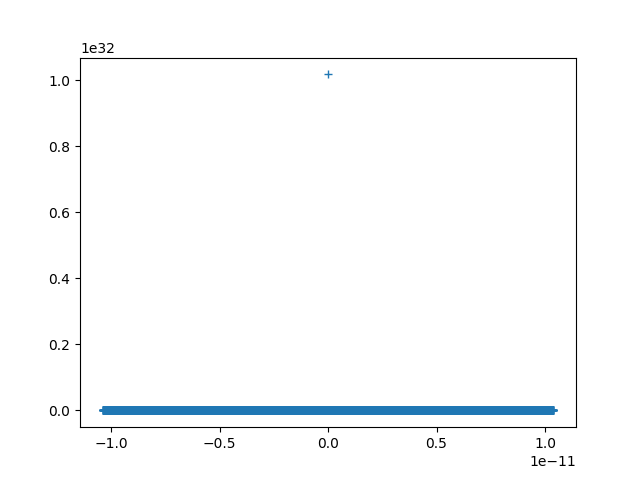
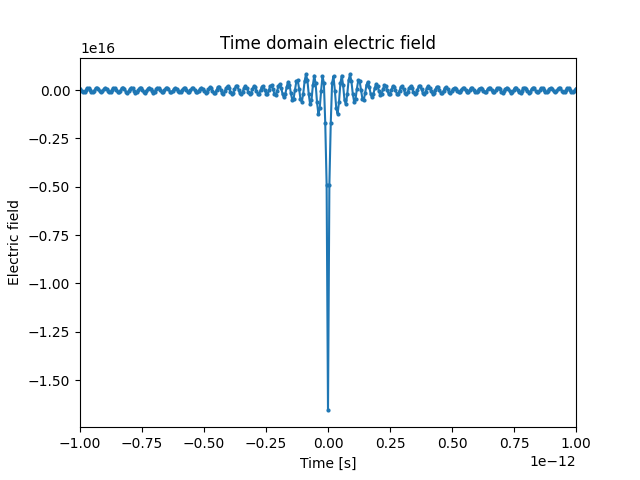
Fixed Interpolation Problem -> Code works

diff --git a/ft.py b/ft.py
@@ -6,46 +6,43 @@ import scipy.signal
 import obspy.signal.filter
 import fourioso
 
-# reading CSV file
+# Reading CSV file
 data = pd.read_csv("Spectrum-5mm-Fused-Silica.csv")
  
-# converting column data to list then array
+# Converting column data to list then array
 wavelengths = np.array(data['wavelength'].tolist())
 counts = np.array(data['counts'].tolist())
 
-# covert wavelengths to frequencies
-frequencies = scipy.constants.c / (wavelengths * 1e-9)
-# intensity to field
+# Covert wavelengths to frequencies
+frequencies = scipy.constants.c / (wavelengths* 1e-9)
+# Intensity to field
 field = np.sqrt(counts)
 
+# Reverse frequencies and field because monotonically increasing xo is needed for interpolation with numpy.interp
 frequencies_reversed = frequencies[::-1]
 field_reversed = field[::-1]
 
+
 nu_span =  frequencies_reversed[len(frequencies_reversed)-1] - frequencies_reversed[0]
 max_nuspacing = np.abs(np.diff(frequencies_reversed).max())
-#print(nu_span)
-#print(nu_span/max_nuspacing)
-
-#nu_span = frequencies[0] - frequencies[len(frequencies)-1]
-#max_nuspacing = np.abs(np.diff(frequencies).max())
 
 n_points, nu_spacing = fourioso.n_spacing(max_nuspacing, nu_span) # automatically chooses efficient n_points
 nu = fourioso.get_axis(n_points, nu_spacing)
-#print(nu/1e12)
-#print(frequencies)
+
 
 # Test if arrax x is monotonic and can therefore be interpolated with np.interp
 def monotonic(x):
     dx = np.diff(x)
     return np.all(dx <= 0) or np.all(dx >= 0)
 
-#print(monotonic(frequencies_reversed))
+# Check if strictly increasing
+#print(np.all(np.diff(frequencies_reversed) > 0))
+
 
 # Interpolate spectral data to new frequency axis
-spectrum_interpolated = np.interp(nu, frequencies_reversed, field_reversed)
-#print(frequencies_reversed)
-print(type(field_reversed[1]))
-print(spectrum_interpolated[500])
+nu_interpolatable = nu + frequencies_reversed[0] - nu[0]  # get new frequency axis in data range for interpolation
+spectrum_interpolated = np.interp(nu_interpolatable, frequencies_reversed, field_reversed)
+
 
 t, data_transformed = fourioso.itransform(nu, spectrum_interpolated)
 # you can also separate this:
@@ -54,6 +51,7 @@ t, data_transformed = fourioso.itransform(nu, spectrum_interpolated)
 
 data_backtransformed = fourioso.transform(t, data_transformed, return_axis=False)
 
+# Optionally calculate envelope via Hilbert transform
 intensity_envelope = obspy.signal.filter.envelope(data_transformed**2)
 
 # Determine FWHM in fs
@@ -69,11 +67,15 @@ def get_fwhm(t, envelope):
 
 fwhm = get_fwhm(t, data_transformed) * 1e15
 
-#print("FWHM: " + str(fwhm) + " fs")
+print("FWHM: " + str(fwhm) + " fs")
 
 plt.figure()
-plt.plot(t, data_transformed, '+')
-#plt.show()
+plt.plot(t, data_transformed**2, '-o', markersize=2)
+plt.xlim(-1e-12, 1e-12)
+plt.title('Time domain intensity')
+plt.xlabel('Time [s]')
+plt.ylabel('Intensity')
+plt.show()
 
 
 
